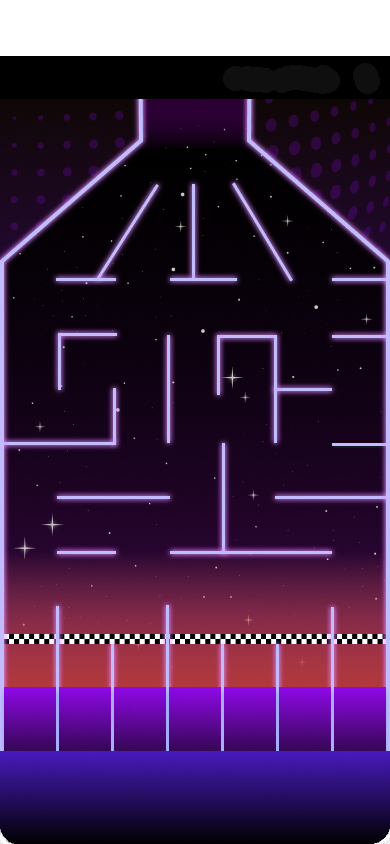
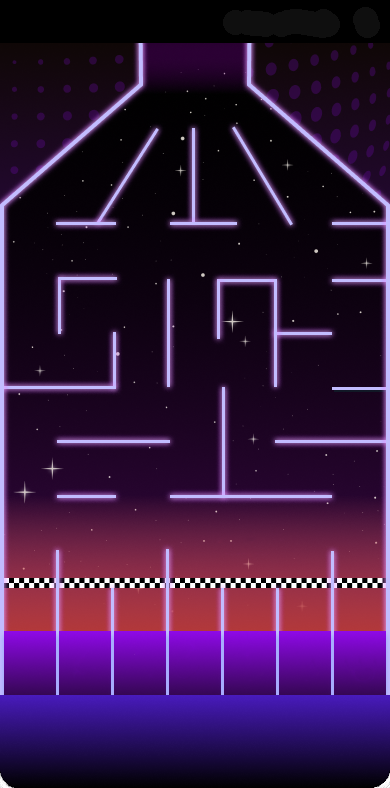
убрал фигню сверху

diff --git a/frontend/app.vue b/frontend/app.vue
@@ -2929,20 +2929,23 @@ const startExplosionAnimation = () => {
 // Добавляем вычисление масштаба
 const updateScale = () => {
   const baseWidth = 390;
-  const baseHeight = 844;
+  const baseHeight = 788;
   const currentWidth = window.innerWidth;
   const currentHeight = window.innerHeight;
   
-  // Масштабируем по ширине И высоте
-  const scaleByWidth = currentWidth / baseWidth;
-  const scaleByHeight = currentHeight / baseHeight;
-  
-  // Выбираем минимальный масштаб чтобы вся игра помещалась на экран
-  scaleFactor.value = Math.min(scaleByWidth, scaleByHeight);
-  
-  // Для очень маленьких экранов отключаем масштабирование
-  if (currentWidth <= 390) {
-    scaleFactor.value = 1;
+  // Для мобильных устройств - масштабируем только по ширине
+  if (currentWidth <= 768) {
+    const scaleByWidth = currentWidth / baseWidth;
+    scaleFactor.value = scaleByWidth;
+  } else {
+    // Для десктопов - сохраняем прежнюю логику
+    const scaleByWidth = currentWidth / baseWidth;
+    const scaleByHeight = currentHeight / baseHeight;
+    scaleFactor.value = Math.min(scaleByWidth, scaleByHeight);
+    
+    if (currentWidth <= 390) {
+      scaleFactor.value = 1;
+    }
   }
 };
 
@@ -3239,7 +3242,7 @@ window.removeEventListener('resize', updateMainBgDimensions);
 
 .win-buttons-container {
   position: absolute;
-  top: 75%;
+  top: 73%;
   right: 0;
   width: 100%;
   height: 66px;
@@ -3357,7 +3360,7 @@ window.removeEventListener('resize', updateMainBgDimensions);
 /* Существующие стили прогресс-бара */
 .progress-container {
   position: absolute;
-  top: 13%; /* Располагаем сразу под panel-up (высота panel-up) */
+  top: 7%; /* Располагаем сразу под panel-up (высота panel-up) */
   left: 0;
   right: 0;
   width: 100%;
@@ -3618,7 +3621,7 @@ window.removeEventListener('resize', updateMainBgDimensions);
 .game-container {
   transform-origin: center center;
   width: 390px;
-  height: 844px;
+  height: 788px;
   position: relative;
 }
 
@@ -3739,6 +3742,7 @@ window.removeEventListener('resize', updateMainBgDimensions);
 .explosion {
   position: absolute;
   width: 50px;
+  margin-top: -13%;
   height: 50px;
   background-size: contain;
   background-repeat: no-repeat;
@@ -3774,7 +3778,7 @@ window.removeEventListener('resize', updateMainBgDimensions);
 .game-container {
   transform-origin: top center;
   width: 390px;
-  height: 844px;
+  height: 788px;
   margin: 0 auto;
   position: relative;
 }
@@ -3879,7 +3883,7 @@ window.removeEventListener('resize', updateMainBgDimensions);
 .labirint-bg {
   
   position: absolute;
-  top: 8.1%; /* Точная подстройка позиции сверху */
+  top: 1.7%; /* Точная подстройка позиции сверху */
   height: 689px; /* Соответствует соотношению сторон 390x689 */
   width: 100%; /* Занимает всю ширину родителя */
   pointer-events: none;
@@ -3942,7 +3946,7 @@ window.removeEventListener('resize', updateMainBgDimensions);
 /* Стили для черной менюшки */
 .panel-up {
   position: absolute;
-  top: 7%;
+  top: 0%;
   left: 0;
   width: 100%;
   height: 43px;
@@ -4015,8 +4019,8 @@ window.removeEventListener('resize', updateMainBgDimensions);
   width: 30px;
   height: 38px;
   scale: 90%;
-  
-  transform: translate(-50%, -50%); /* Центрирование */
+  margin-top: -13%;
+  transform: translate(-50%, -50%) ; /* Центрирование */
   z-index: 3;
   transition: left 0.1s linear, top 0.1s linear, filter 0.3s ease; /* Плавное движение */ /* Полупрозрачный фон */
     
@@ -4141,9 +4145,9 @@ filter: drop-shadow(0 0 3px rgba(255, 255, 255, 0.8))
   background-size: 100% auto;
   /* Фиксированные размеры контейнера */
   width: 390px;
-  min-height: 844px;
+  min-height: 788px;
   height: 100%;
-  max-height: 844px;
+  max-height: 788px;
   position: relative;
   overflow: hidden;
   margin: 0 auto;
@@ -4611,13 +4615,7 @@ filter: drop-shadow(0 0 3px rgba(255, 255, 255, 0.8))
   height: 46px;
   background-image: url('/images/buttons/Group 168.png');
 }
-/* Адаптивность по высоте */
-@media (max-height: 844px) {
-  .main-bg {
-    height: 100vh;
-    max-height: none;
-  }
-}
+
 
 
 /* Анимация пульсации */
